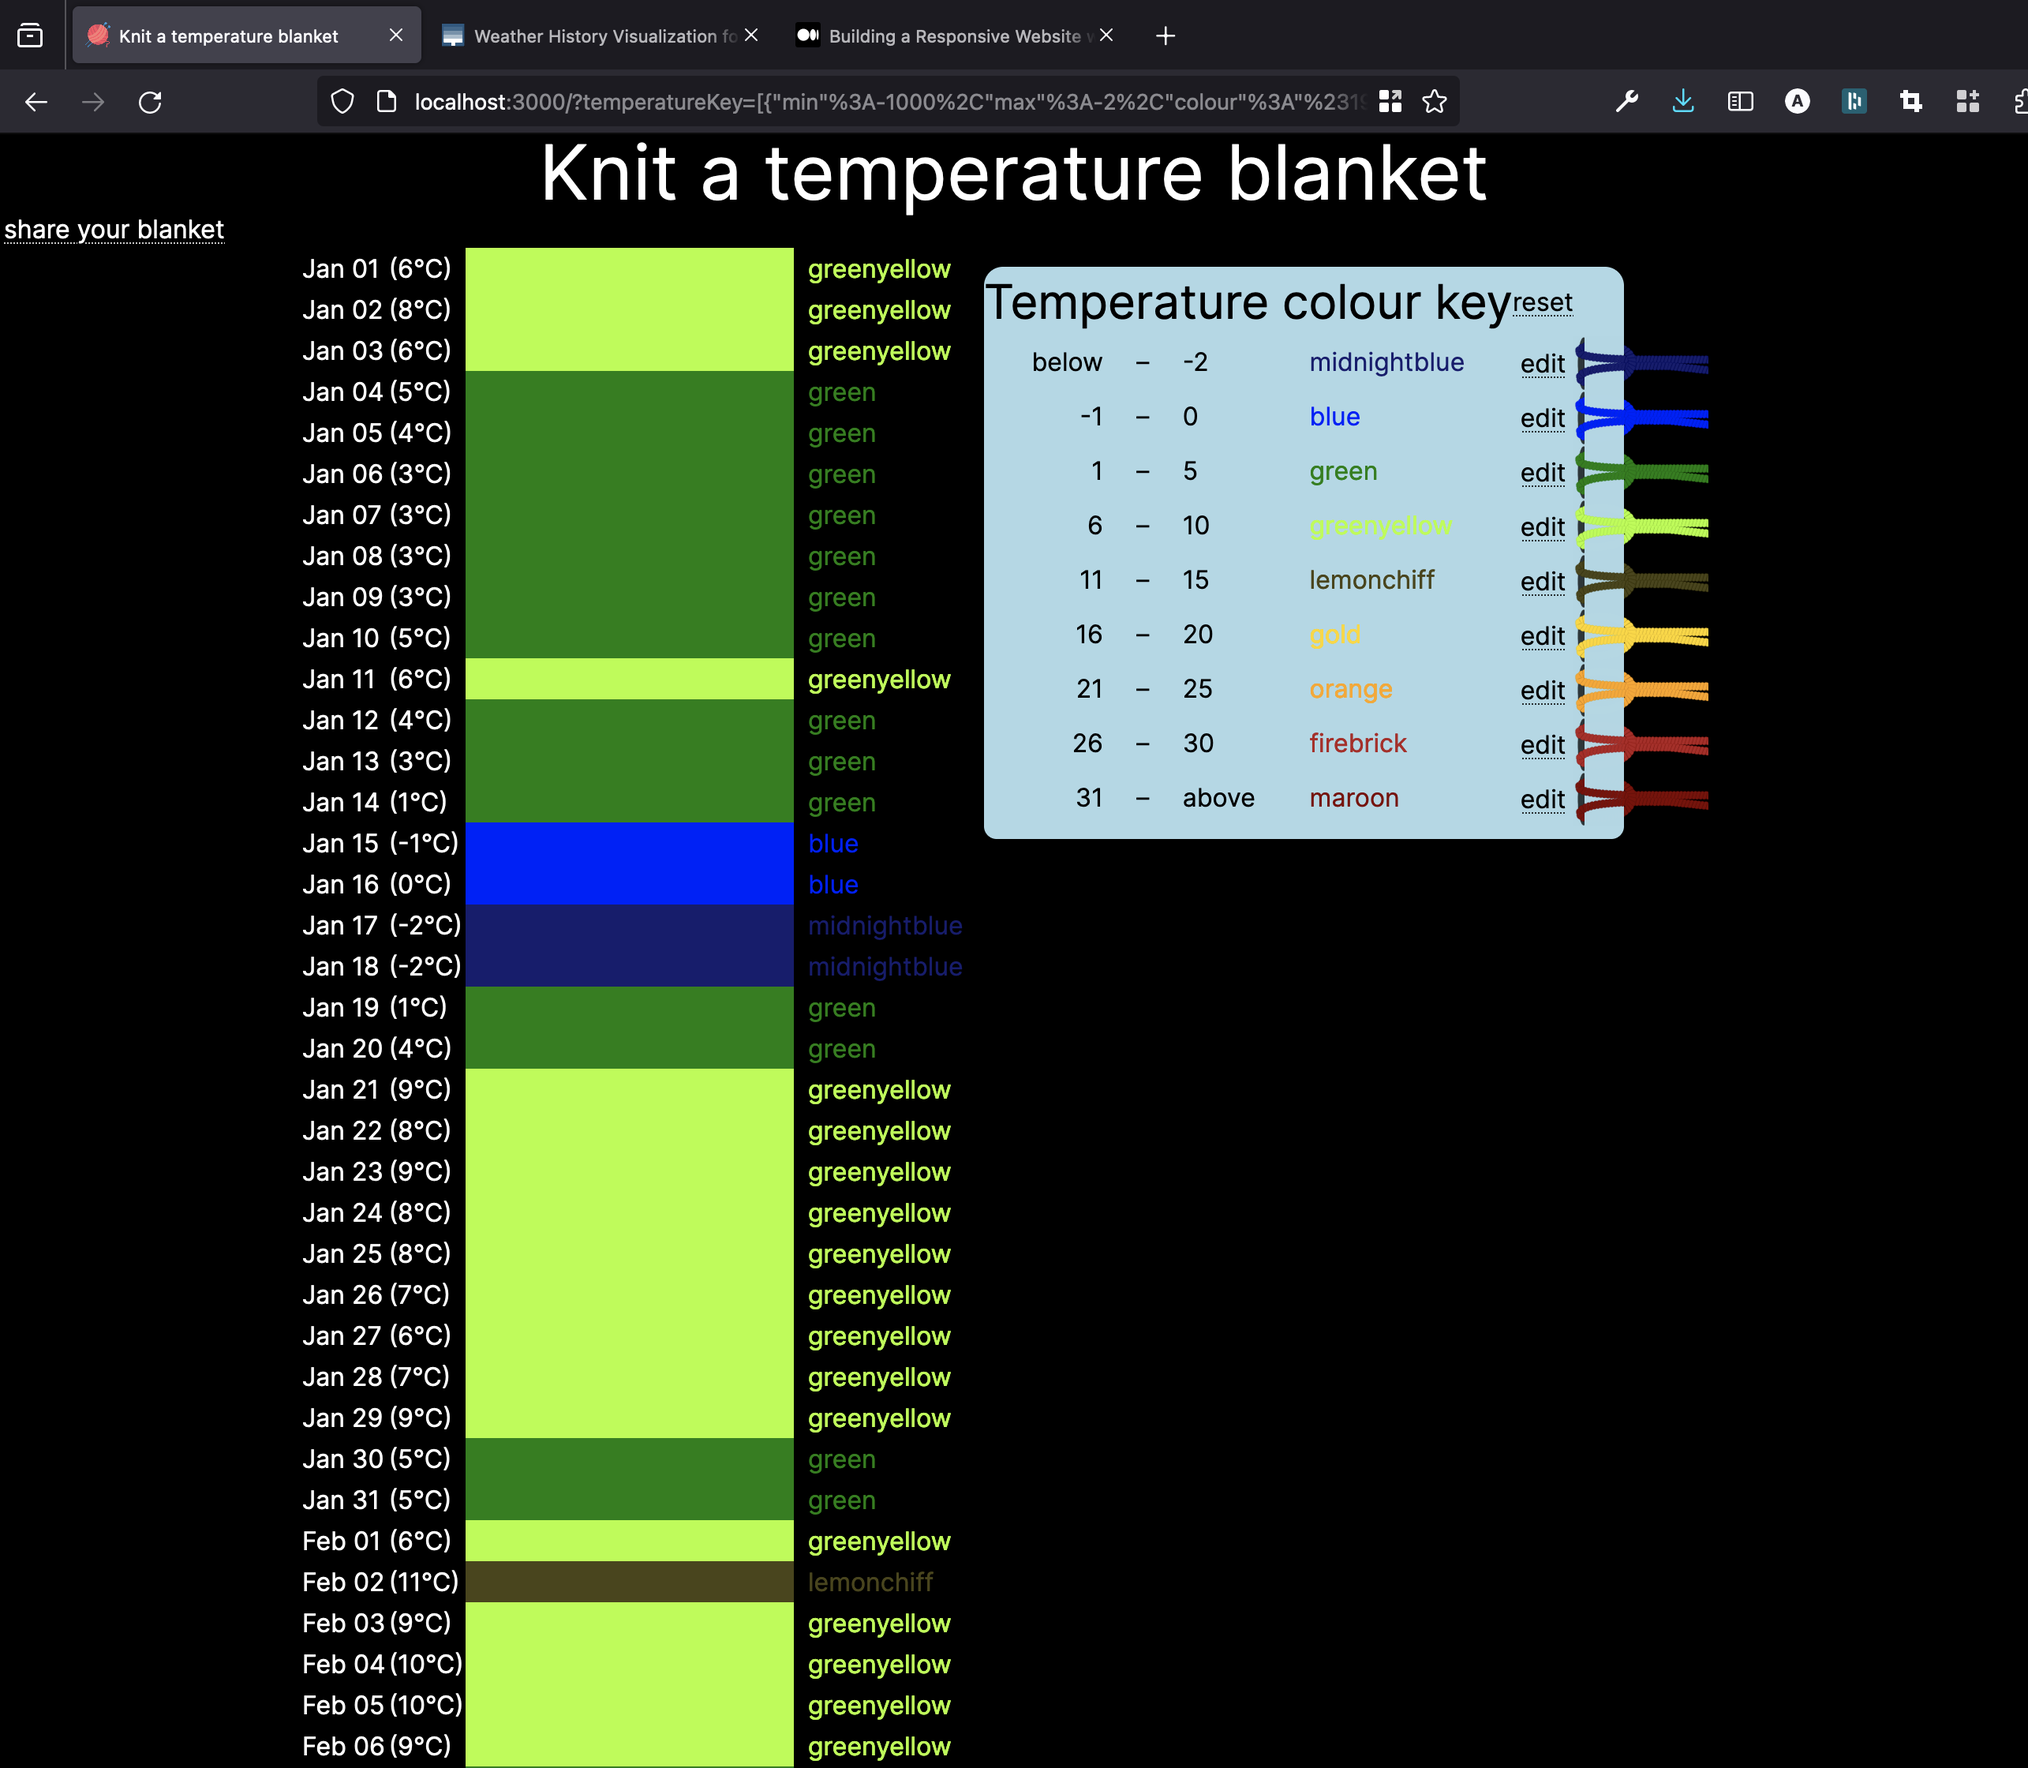
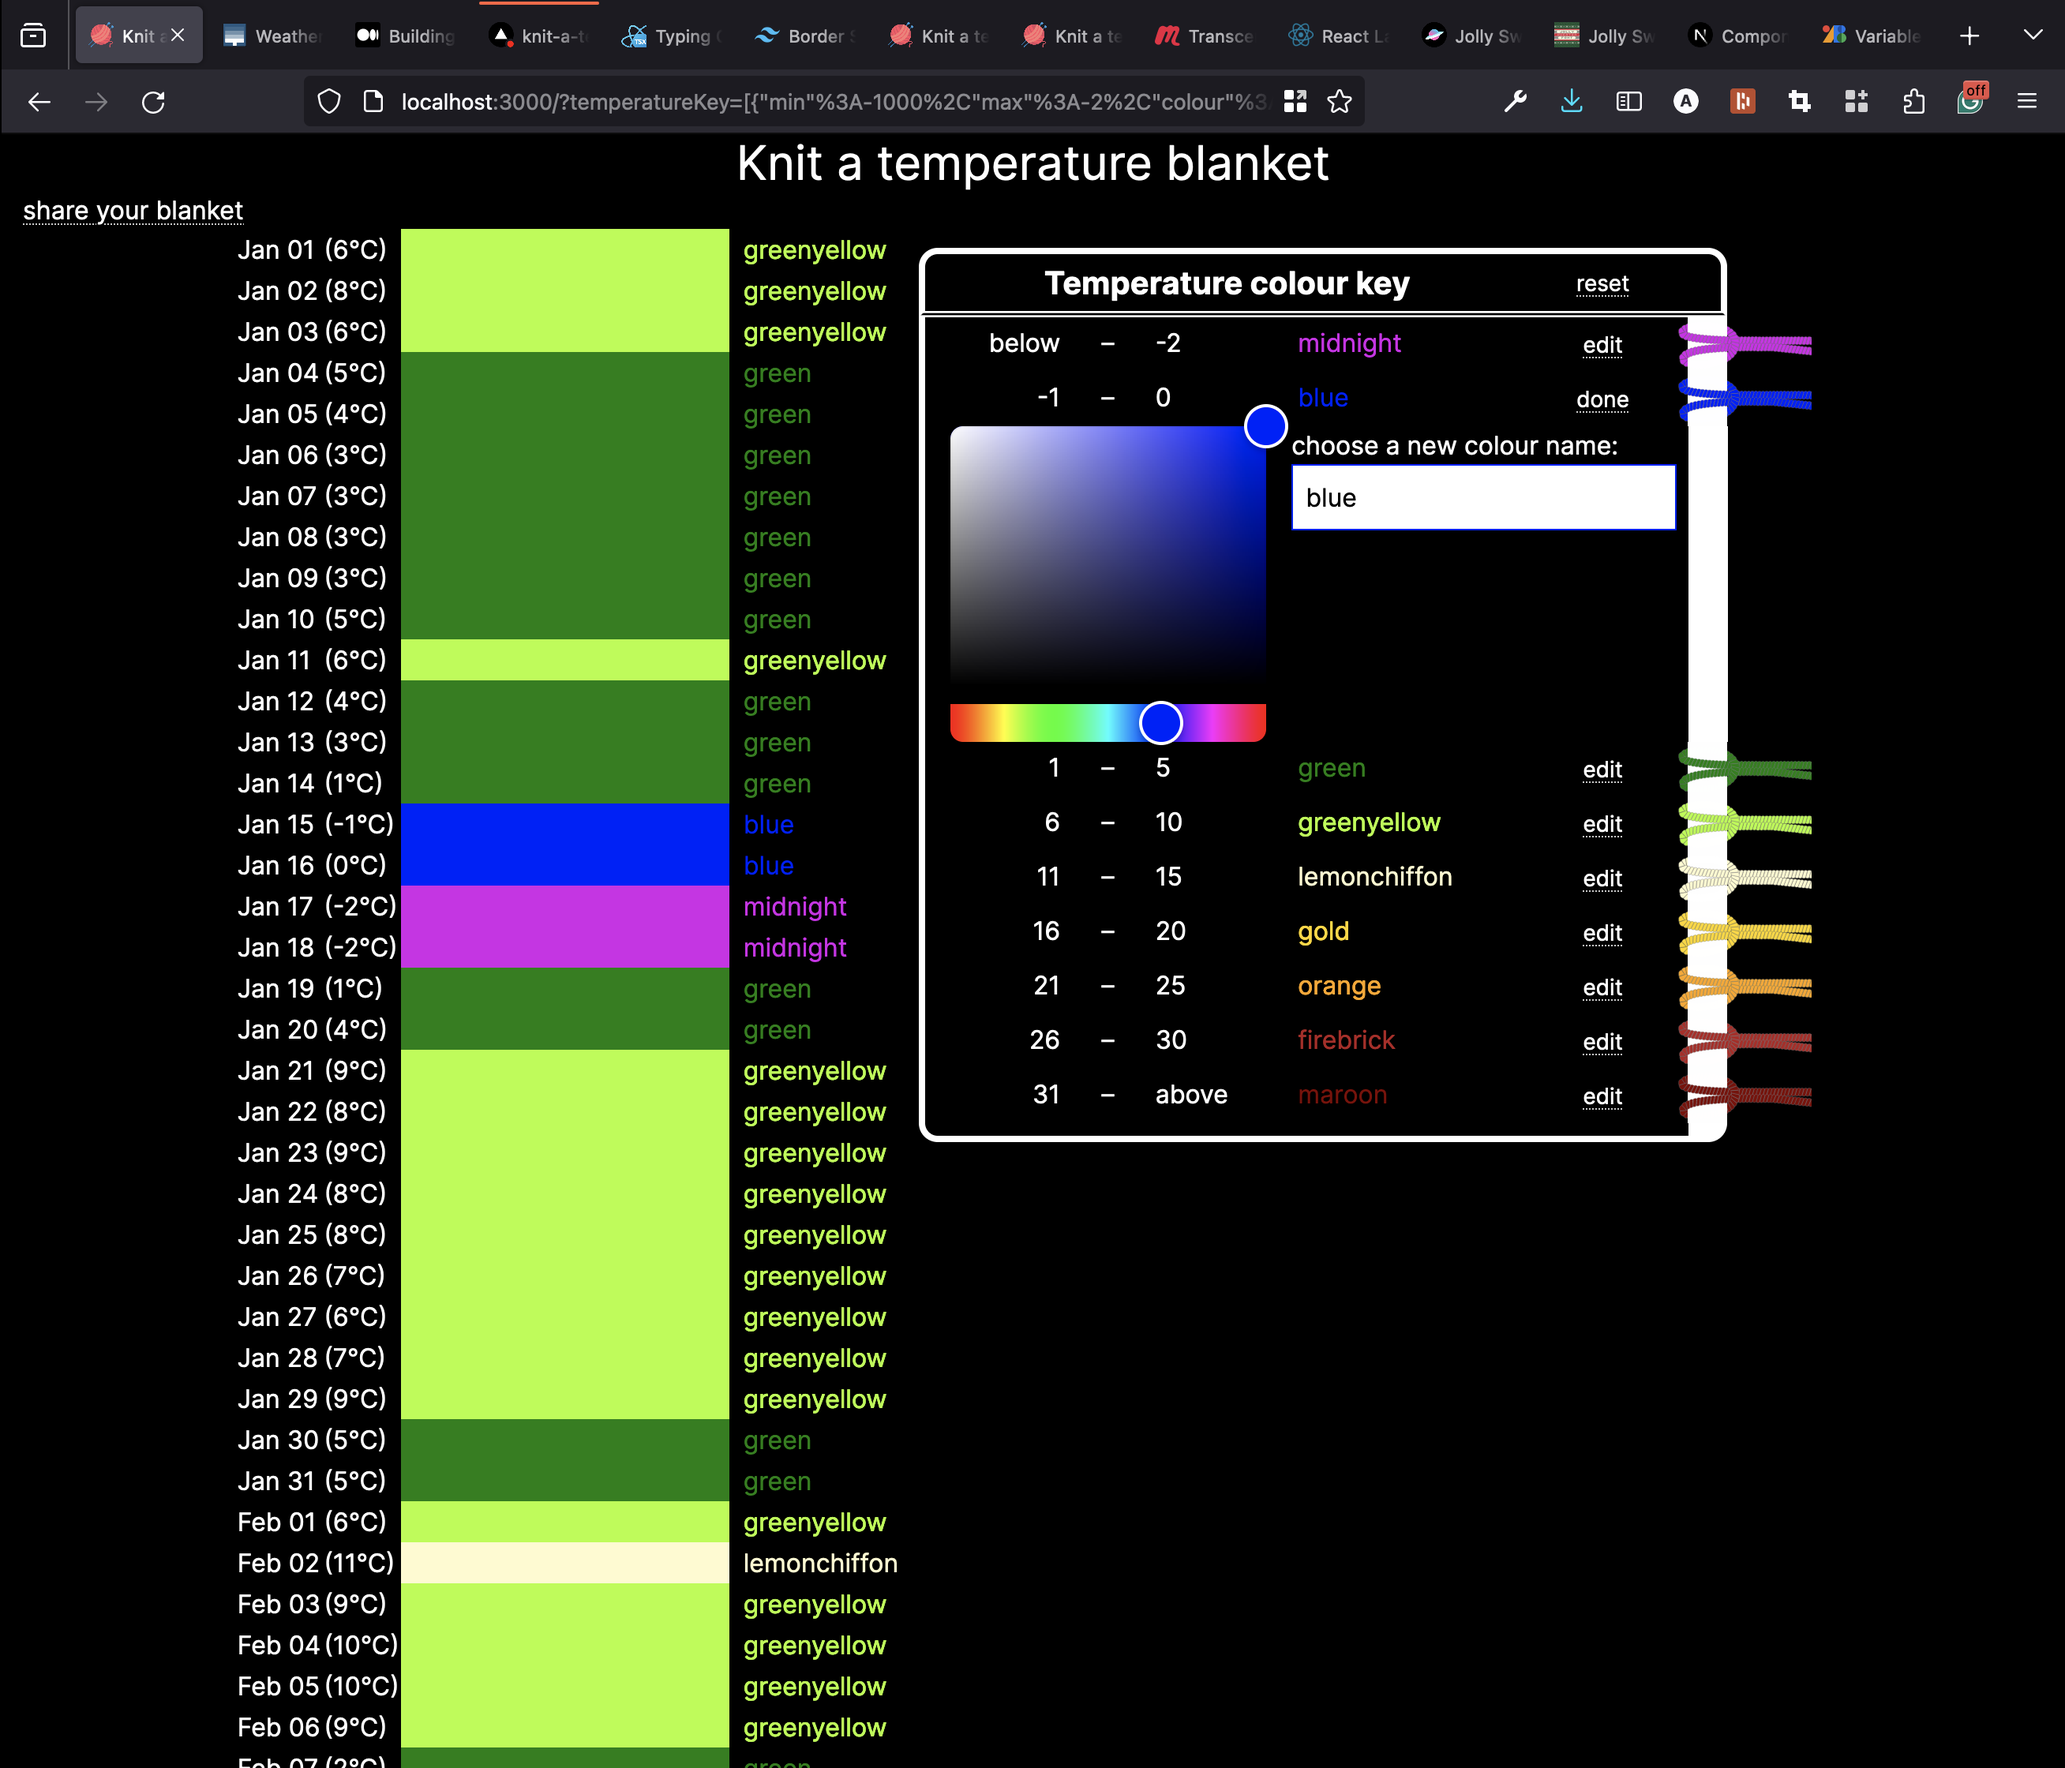
Make colour editing view pretty

diff --git a/app/ui/ColourKeyRow.tsx b/app/ui/ColourKeyRow.tsx
@@ -25,7 +25,7 @@ const ColourKeyRow = ({
   const [editingRange, setEditingRange] = useState(false);
 
   const backgroundColour = "white";
-  const baseClasses = "bg-key-background text-text-key-text p-1";
+  const baseClasses = "bg-key-background text-key-text p-1";
 
   const min = range.min == -1000 ? "below" : range.min;
   const max = range.max == 1000 ? "above" : range.max;
@@ -73,7 +73,7 @@ const ColourKeyRow = ({
         }}
         onClick={() => setEditingRange(!editingRange)}
       >
-        edit
+        {editingRange ? "done" : "edit"}
       </LinkButton>
       <div
         className="p-0"
@@ -89,14 +89,20 @@ const ColourKeyRow = ({
       </div>
       {editingRange ? (
         <>
-          <HexColorPicker
-            color={range.colour}
-            onChange={(newColour) => updateRange(range, { colour: newColour })}
-            className="mr-4 grid justify-self-end"
+          <div
             style={{
+              borderLeftWidth: borderWidth,
               gridArea: `colourPicker-${rowIndex}`,
             }}
-          />
+            className="flex justify-end px-4"
+          >
+            <HexColorPicker
+              color={range.colour}
+              onChange={(newColour) =>
+                updateRange(range, { colour: newColour })
+              }
+            />
+          </div>
           <div style={{ gridArea: `editColourName-${rowIndex}` }}>
             <p>choose a new colour name:</p>
             <input
@@ -109,6 +115,14 @@ const ColourKeyRow = ({
               }}
               value={range.colourName}
             />
+          </div>
+          <div
+            style={{
+              paddingLeft: 7.2,
+              gridArea: `colourPickerEdge-${rowIndex}`,
+            }}
+          >
+            <div className="bg-key-outline min-h-full" style={{ width: 25 }} />
           </div>
         </>
       ) : null}

diff --git a/app/ui/ColourKey.tsx b/app/ui/ColourKey.tsx
@@ -25,7 +25,7 @@ export const getGridTemplate = (rowCount: number) => {
   while (rowIndex < rowCount) {
     gridTemplate +=
       `'minimum-${rowIndex} to-${rowIndex} maximum-${rowIndex} colourName-${rowIndex} editButton-${rowIndex} yarnSwatch-${rowIndex}' ` +
-      `'colourPicker-${rowIndex} colourPicker-${rowIndex} colourPicker-${rowIndex} editColourName-${rowIndex} editColourName-${rowIndex} editColourName-${rowIndex}' `;
+      `'colourPicker-${rowIndex} colourPicker-${rowIndex} colourPicker-${rowIndex} editColourName-${rowIndex} editColourName-${rowIndex} colourPickerEdge-${rowIndex}' `;
     rowIndex++;
   }
 

diff --git a/README.md b/README.md
@@ -44,6 +44,8 @@ Open [http://localhost:3000](http://localhost:3000) with your browser to see the
 - [ ] Add line of previous progress e.g. already knitted january, just focus on pattern for feb - march.
 - [ ] WIP Separate page for configuring temperature colour key
 - [ ] About or home page explaining a temperature blanket
+- [ ] Auto-generate temperature ranges based on previous years' data
+- [ ] Give more user feedback / instruction on creating sharable URL 
 
 
 ### Sneak Peek
